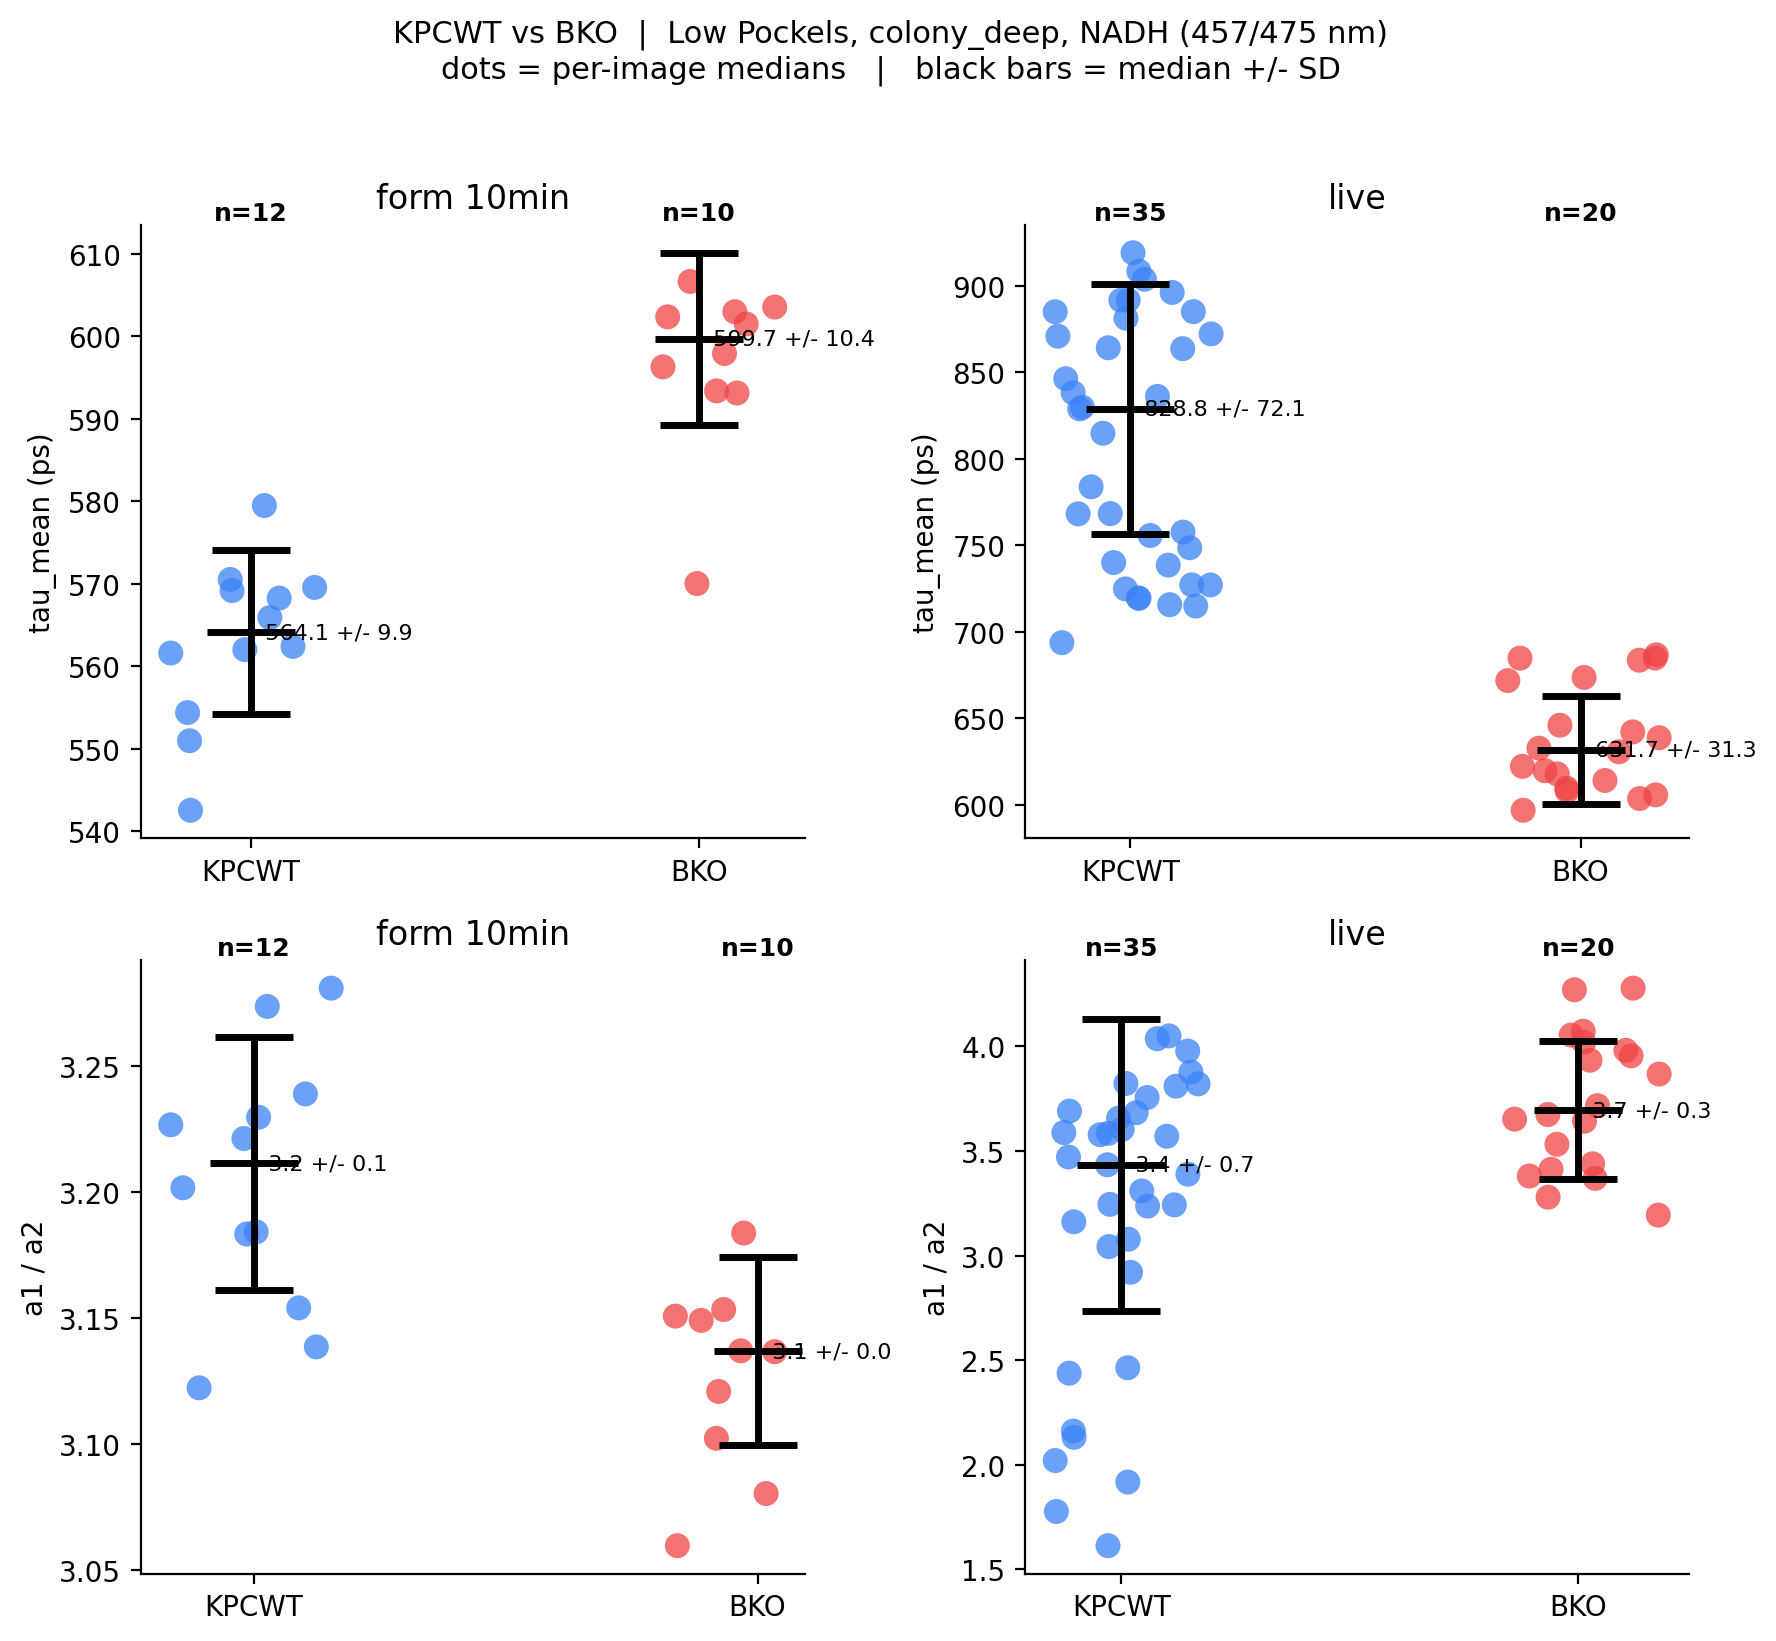
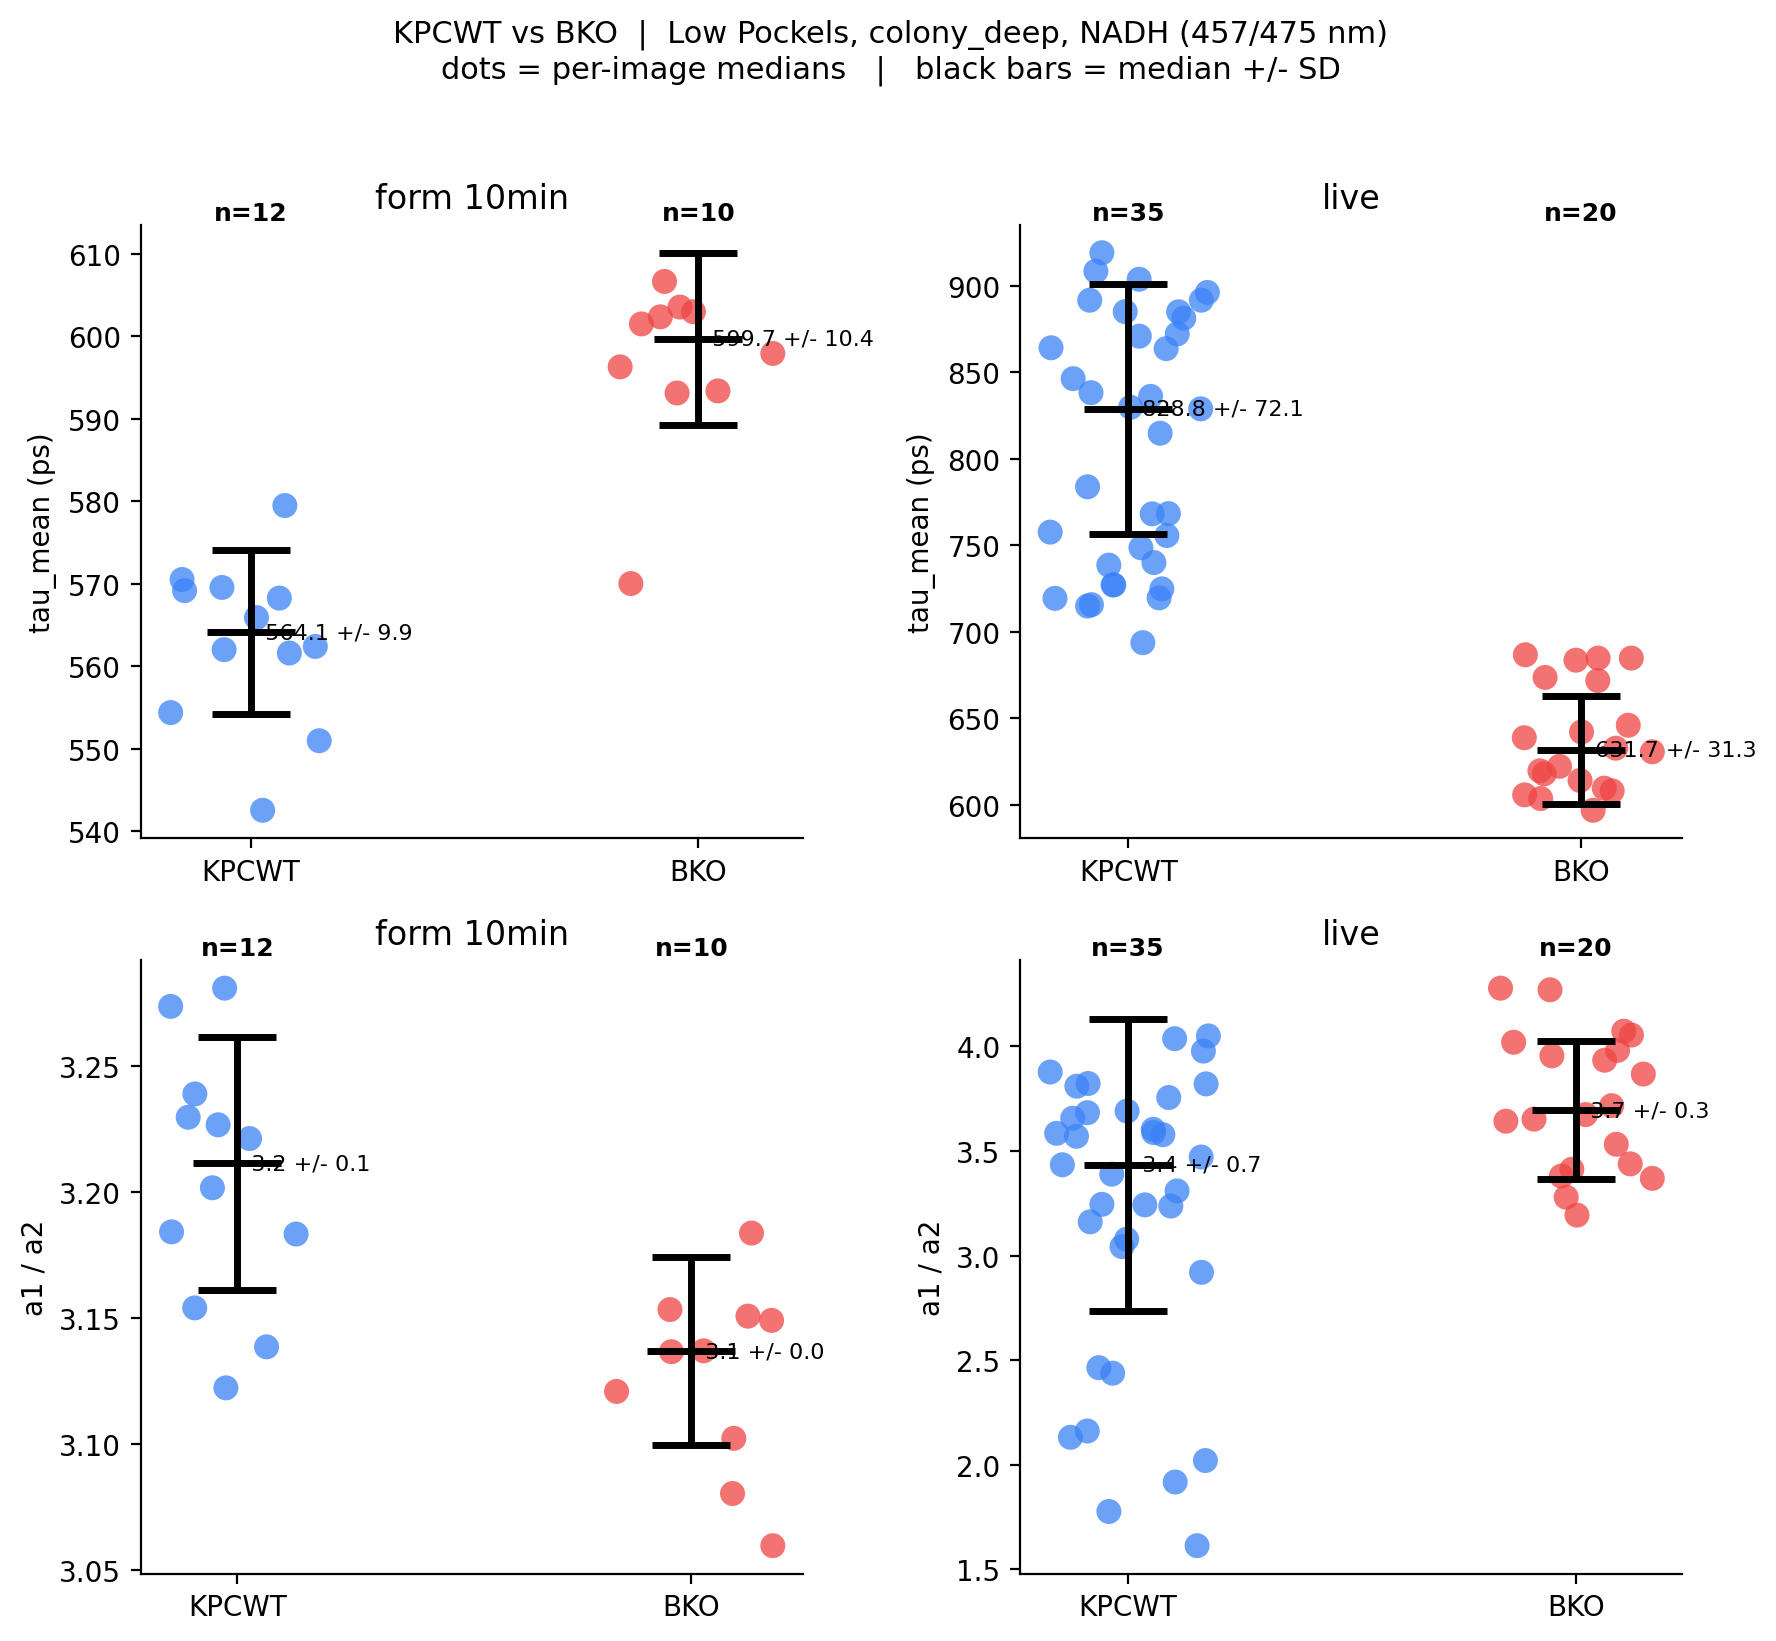
Likely status of analysis after meeting.

diff --git a/notebooks/quickpeek3.py b/notebooks/quickpeek3.py
@@ -875,4 +875,68 @@ plt.tight_layout()
 plt.savefig(r'..\results\quickpeek3_permutation.png', dpi=200, bbox_inches='tight')
 plt.show()
 
+# %% [markdown]
+# ## Step 12: Live-session sensitivity (drop 5/1 KPC and 5/21 BKO)
+#
+# Justification for the restriction: Pockels is a significant factor for live
+# tau_mean and for form 10min tau_mean and a1/a2 (Step 11 forest plots).
+# - 5/1 KPC was acquired at Pockels=0.1
+# - 5/21 BKO was acquired at Pockels=0.25
+# - 5/8 KPC and 5/17 BKO were both at Pockels=0.2  -- best match.
+#
+# Forest of (KPCWT - BKO) median diff under three restrictions:
+#   primary       = full Low-PC matched subset
+#   drop 5/21 BKO = keep both KPC sessions, drop 5/21 BKO
+#   only 5/8+5/17 = keep only Pockels=0.2 sessions
+
+# %%
+live_base = df.loc[(df.fixation_type == 'live')
+                   & df.em_filter_nm.isin(NADH_FILTERS)
+                   & (df.PC == 'Low')
+                   & (df.annotation == 'colony_deep')]
+
+live_restrictions = {
+    'primary (all Low PC)': live_base,
+    'drop 5/21 BKO':        live_base.loc[live_base.date != pd.Timestamp('2026-05-21')],
+    'only 5/8 + 5/17':      live_base.loc[live_base.date.isin(
+                                [pd.Timestamp('2026-05-08'),
+                                 pd.Timestamp('2026-05-17')])],
+}
+
+fig, axes = plt.subplots(len(METRICS), 1,
+                         figsize=(10, 3.5 * len(METRICS)), squeeze=False)
+for row, (metric, ylabel) in enumerate(METRICS.items()):
+    ax = axes[row][0]
+    items = []
+    for lbl, sub in live_restrictions.items():
+        items.append((lbl, effect_stats(sub, metric)))
+    for i, (lbl, eff) in enumerate(items):
+        if eff is None:
+            ax.text(0.02, i, '(n < 2)', va='center',
+                    transform=ax.get_yaxis_transform(),
+                    fontsize=9, color='gray')
+            continue
+        color = 'black' if (eff['ci_lo'] * eff['ci_hi'] > 0) else 'gray'
+        ax.errorbar([eff['diff']], [i],
+                    xerr=[[eff['diff']-eff['ci_lo']], [eff['ci_hi']-eff['diff']]],
+                    fmt='o', color=color, capsize=4, lw=1.6, markersize=9)
+        sig = ' *' if eff['p'] < 0.05 else ''
+        ax.text(1.02, i,
+                f"n=({eff['n_kpc']},{eff['n_bko']})  "
+                f"r={eff['r']:+.2f}  p={eff['p']:.3f}{sig}",
+                transform=ax.get_yaxis_transform(),
+                fontsize=9, va='center', family='monospace')
+    ax.axvline(0, color='gray', lw=1, linestyle='--')
+    ax.set_yticks(range(len(items)))
+    ax.set_yticklabels([r[0] for r in items])
+    ax.invert_yaxis()
+    ax.set_xlabel(f'KPCWT - BKO median diff: {ylabel}')
+    ax.set_title(ylabel, fontsize=10)
+plt.suptitle('Live: session-restriction sensitivity  |  matched-Pockels subset',
+             fontsize=11, y=1.01)
+plt.tight_layout()
+plt.savefig(r'..\results\quickpeek3_live_session_sensitivity.png',
+            dpi=200, bbox_inches='tight')
+plt.show()
+
 # %%

diff --git a/validate_flim.py b/validate_flim.py
@@ -60,6 +60,11 @@ PHASOR_TAU_LABELS_NS = [1, 2, 3, 4, 5, 6, 7, 8]
 # Preferred fit components per fixation type (mirrors Phase E)
 PREFERRED_N_COMP = {"glu": 3, "form": 2, "live": 2}
 
+# Per-session bin-radius override.  See Phase E for rationale.
+PREFERRED_BIN_OVERRIDE = {
+    "20260509_KPC_fixed_dishes_on_SLIM": 10,
+}
+
 # Amplitude-weighted tau_mean component pairs (a_key, tau_key)
 # glu: skip ultra-short artifact a1; use a2/tau2 (free NADH) + a3/tau3 (bound NADH)
 TAUMEAN_CFG = {
@@ -192,6 +197,13 @@ def fit_dir_from_key(fit_set_key):
     return fit_dir, session_root, rel_dir, base_stem
 
 
+def _parse_bin_radius(key: str) -> int:
+    """Parse bin radius from fit_set_key string, e.g. 'fitet-sz-c2-b10' -> 10.
+    Returns 0 if no bin token found."""
+    m = re.search(r"[-_]b(\d+)", str(key), re.IGNORECASE)
+    return int(m.group(1)) if m else 0
+
+
 def _prefer_shift_zero(candidates) -> str:
     """Among candidate rows, return the fit_set_key of the shift-zero folder.
 
@@ -214,6 +226,13 @@ def best_fit_key_for(filename, fixation_type, fit_map_df):
     rows = fit_map_df[fit_map_df["sdt_filename"] == filename]
     if rows.empty:
         return None
+    if PREFERRED_BIN_OVERRIDE:
+        _sess = str(rows.iloc[0]["fit_set_key"]).split("::")[0]
+        if _sess in PREFERRED_BIN_OVERRIDE:
+            _bin_rows = rows[rows["fit_set_key"].apply(_parse_bin_radius)
+                            == PREFERRED_BIN_OVERRIDE[_sess]]
+            if not _bin_rows.empty:
+                rows = _bin_rows
     preferred = PREFERRED_N_COMP.get(str(fixation_type))
     if preferred is not None and "n_components" in rows.columns:
         exact = rows[rows["n_components"] == preferred]
